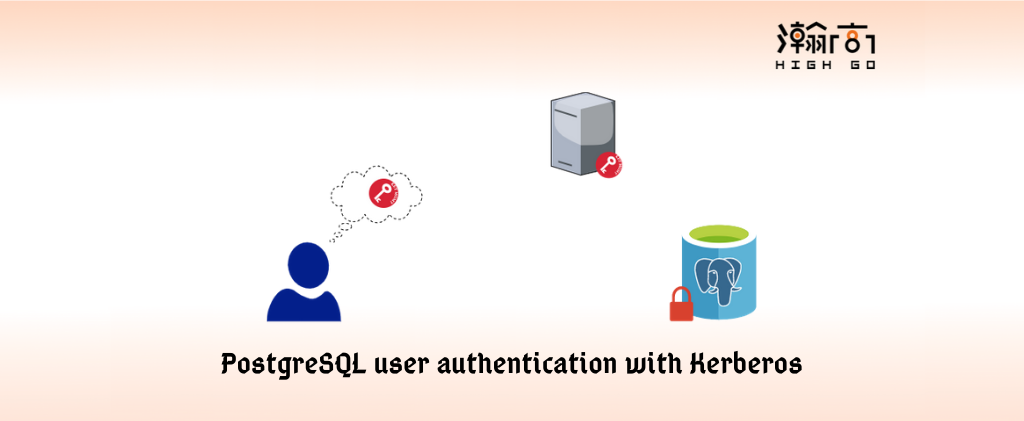
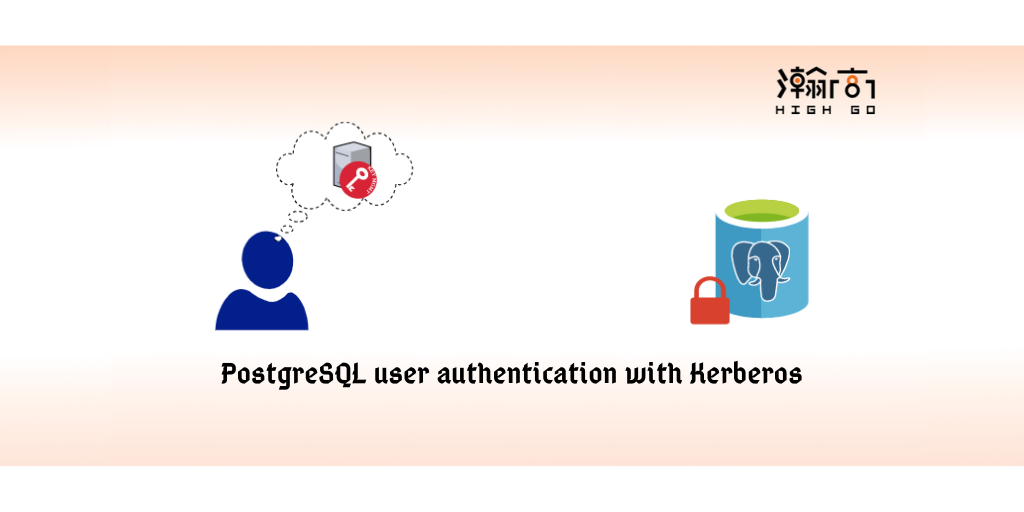
Site updated: 2020-03-18 13:25:36

diff --git a/index.html b/index.html
@@ -205,7 +205,7 @@
                   <i class="fa fa-calendar-check-o"></i>
                 </span>
                 <span class="post-meta-item-text">Edited on</span>
-                <time title="Modified: 2020-03-18 12:38:23" itemprop="dateModified" datetime="2020-03-18T12:38:23-07:00">2020-03-18</time>
+                <time title="Modified: 2020-03-18 13:24:16" itemprop="dateModified" datetime="2020-03-18T13:24:16-07:00">2020-03-18</time>
               </span>
             <span class="post-meta-item">
               <span class="post-meta-item-icon">
@@ -254,7 +254,8 @@
     <div class="post-body" itemprop="articleBody">
 
       
-          <h4 id="1-Overview"><a href="#1-Overview" class="headerlink" title="1. Overview"></a>1. Overview</h4><p>In previous two blogs, we explained how to setup Kerberos, and how to configure PostgreSQL to support GSSAPI user authentication. This blog will be focusing on how to check GSSAPI authentication, encryption and user principal information when given different connection options.</p>
+          <p><img src="/images/img/fi-part3.png" alt="Featured image"></p>
+<h4 id="1-Overview"><a href="#1-Overview" class="headerlink" title="1. Overview"></a>1. Overview</h4><p>In previous two blogs, we explained how to setup Kerberos, and how to configure PostgreSQL to support GSSAPI user authentication. This blog will be focusing on how to check GSSAPI authentication, encryption and user principal information when given different connection options.</p>
 <h4 id="2-pg-stat-gssapi-view"><a href="#2-pg-stat-gssapi-view" class="headerlink" title="2. pg_stat_gssapi view"></a>2. pg_stat_gssapi view</h4><p>According to the official <a href="https://www.postgresql.org/docs/current/gssapi-auth.html" target="_blank" rel="noopener">PostgreSQL document</a>, “<em>PostgreSQL supports GSSAPI for use as either an encrypted, authenticated layer, or for authentication only.</em>“ To check the authentication, encryption and user principal, we need to use <code>pg_stat_gssapi</code> view, which is a dynamic statistics views containing one row per backend and showing the information about GSSAPI authentication and encryption used on this connection.</p>
 <p>Before start the test below, make sure the <code>PostgreSQL server</code> and the <code>psql client</code> has the option <code>--with-gssap</code> enabled during build time.</p>
 <h4 id="3-Authentication-and-Encryption-status"><a href="#3-Authentication-and-Encryption-status" class="headerlink" title="3. Authentication and Encryption status"></a>3. Authentication and Encryption status</h4><ul>
@@ -349,7 +350,7 @@
                   <i class="fa fa-calendar-check-o"></i>
                 </span>
                 <span class="post-meta-item-text">Edited on</span>
-                <time title="Modified: 2020-03-18 12:17:04" itemprop="dateModified" datetime="2020-03-18T12:17:04-07:00">2020-03-18</time>
+                <time title="Modified: 2020-03-18 13:24:32" itemprop="dateModified" datetime="2020-03-18T13:24:32-07:00">2020-03-18</time>
               </span>
             <span class="post-meta-item">
               <span class="post-meta-item-icon">
@@ -398,7 +399,8 @@
     <div class="post-body" itemprop="articleBody">
 
       
-          <h4 id="1-Overview"><a href="#1-Overview" class="headerlink" title="1. Overview"></a>1. Overview</h4><p>In previous <a href="https://idrawone.github.io/2020/03/11/PostgreSQL-GSSAPI-Authentication-with-Kerberos-part-1/">blog</a>, we have setup Kerberos, added all required principals and verified each principal. This blog will explain all the necessary configuration, i.e. <code>postgresql.conf</code>, <code>pg_hba.conf</code> and <code>pg_ident.conf</code>, in PostgreSQL for user authentication using GSSAPI with Kerberos.</p>
+          <p><img src="/images/img/fi-part2.png" alt="Featured image"></p>
+<h4 id="1-Overview"><a href="#1-Overview" class="headerlink" title="1. Overview"></a>1. Overview</h4><p>In previous <a href="https://idrawone.github.io/2020/03/11/PostgreSQL-GSSAPI-Authentication-with-Kerberos-part-1/">blog</a>, we have setup Kerberos, added all required principals and verified each principal. This blog will explain all the necessary configuration, i.e. <code>postgresql.conf</code>, <code>pg_hba.conf</code> and <code>pg_ident.conf</code>, in PostgreSQL for user authentication using GSSAPI with Kerberos.</p>
 <h4 id="2-Build-PostgreSQL-with-GSSAPI"><a href="#2-Build-PostgreSQL-with-GSSAPI" class="headerlink" title="2. Build PostgreSQL with GSSAPI"></a>2. Build PostgreSQL with GSSAPI</h4><p>The official <a href="https://www.postgresql.org/download/linux/ubuntu/" target="_blank" rel="noopener">PostgreSQL release for Ubuntu</a> has GSSAPI enabled for user authentication with Kerberos, however if you want to build it from source code, you can simply enable it by giving the option <code>--with-gssapi</code> in configure process like below.</p>
 <figure class="highlight plain"><table><tr><td class="gutter"><pre><span class="line">1</span><br></pre></td><td class="code"><pre><span class="line">$ .&#x2F;configure --with-gssapi --prefix&#x3D;&#x2F;home&#x2F;postgres&#x2F;pgapp</span><br></pre></td></tr></table></figure>
 <p>There is another option <code>--with-krb-srvnam</code>, PostgreSQL uses the default name of the Kerberos service principal. According to Postgres official document, “<em>There’s usually no reason to change this unless you have a Windows environment, in which case it must be set to upper case POSTGRES</em>“. In this blog, we keep it as default, and no extra configuration required for it. After enabled <code>--with-gssapi</code> option, you can build, install, initialize database, change configuration and start database service as normal. The commands used in this blog are list below.</p>

diff --git a/2020/03/12/PostgreSQL-GSSAPI-Authentication-with-Kerberos-part-2/index.html b/2020/03/12/PostgreSQL-GSSAPI-Authentication-with-Kerberos-part-2/index.html
@@ -46,20 +46,21 @@
   };
 </script>
 
-  <meta name="description" content="1. OverviewIn previous blog, we have setup Kerberos, added all required principals and verified each principal. This blog will explain all the necessary configuration, i.e. postgresql.conf, pg_hba.con">
+  <meta name="description" content="1. OverviewIn previous blog, we have setup Kerberos, added all required principals and verified each principal. This blog will explain all the necessary configuration, i.e. postgresql.conf, pg_hba.co">
 <meta property="og:type" content="article">
 <meta property="og:title" content="PostgreSQL GSSAPI Authentication with Kerberos part-2: PostgreSQL Configuration">
 <meta property="og:url" content="https://idrawone.github.io/2020/03/12/PostgreSQL-GSSAPI-Authentication-with-Kerberos-part-2/index.html">
 <meta property="og:site_name" content="David&#39;s Blog">
-<meta property="og:description" content="1. OverviewIn previous blog, we have setup Kerberos, added all required principals and verified each principal. This blog will explain all the necessary configuration, i.e. postgresql.conf, pg_hba.con">
+<meta property="og:description" content="1. OverviewIn previous blog, we have setup Kerberos, added all required principals and verified each principal. This blog will explain all the necessary configuration, i.e. postgresql.conf, pg_hba.co">
 <meta property="og:locale" content="en_US">
+<meta property="og:image" content="https://idrawone.github.io/images/img/fi-part2.png">
 <meta property="og:image" content="https://idrawone.github.io/images/img/gssapi-postgres.png">
 <meta property="og:image" content="https://idrawone.github.io/images/img/gssapi-postgres-client.png">
 <meta property="article:published_time" content="2020-03-12T11:00:00.000Z">
-<meta property="article:modified_time" content="2020-03-18T19:17:04.883Z">
+<meta property="article:modified_time" content="2020-03-18T20:24:32.339Z">
 <meta property="article:author" content="David Zhang">
 <meta name="twitter:card" content="summary">
-<meta name="twitter:image" content="https://idrawone.github.io/images/img/gssapi-postgres.png">
+<meta name="twitter:image" content="https://idrawone.github.io/images/img/fi-part2.png">
 
 <link rel="canonical" href="https://idrawone.github.io/2020/03/12/PostgreSQL-GSSAPI-Authentication-with-Kerberos-part-2/">
 
@@ -209,7 +210,7 @@
                   <i class="fa fa-calendar-check-o"></i>
                 </span>
                 <span class="post-meta-item-text">Edited on</span>
-                <time title="Modified: 2020-03-18 12:17:04" itemprop="dateModified" datetime="2020-03-18T12:17:04-07:00">2020-03-18</time>
+                <time title="Modified: 2020-03-18 13:24:32" itemprop="dateModified" datetime="2020-03-18T13:24:32-07:00">2020-03-18</time>
               </span>
             <span class="post-meta-item">
               <span class="post-meta-item-icon">
@@ -258,7 +259,8 @@
     <div class="post-body" itemprop="articleBody">
 
       
-        <h4 id="1-Overview"><a href="#1-Overview" class="headerlink" title="1. Overview"></a>1. Overview</h4><p>In previous <a href="https://idrawone.github.io/2020/03/11/PostgreSQL-GSSAPI-Authentication-with-Kerberos-part-1/">blog</a>, we have setup Kerberos, added all required principals and verified each principal. This blog will explain all the necessary configuration, i.e. <code>postgresql.conf</code>, <code>pg_hba.conf</code> and <code>pg_ident.conf</code>, in PostgreSQL for user authentication using GSSAPI with Kerberos.</p>
+        <p><img src="/images/img/fi-part2.png" alt="Featured image"></p>
+<h4 id="1-Overview"><a href="#1-Overview" class="headerlink" title="1. Overview"></a>1. Overview</h4><p>In previous <a href="https://idrawone.github.io/2020/03/11/PostgreSQL-GSSAPI-Authentication-with-Kerberos-part-1/">blog</a>, we have setup Kerberos, added all required principals and verified each principal. This blog will explain all the necessary configuration, i.e. <code>postgresql.conf</code>, <code>pg_hba.conf</code> and <code>pg_ident.conf</code>, in PostgreSQL for user authentication using GSSAPI with Kerberos.</p>
 <h4 id="2-Build-PostgreSQL-with-GSSAPI"><a href="#2-Build-PostgreSQL-with-GSSAPI" class="headerlink" title="2. Build PostgreSQL with GSSAPI"></a>2. Build PostgreSQL with GSSAPI</h4><p>The official <a href="https://www.postgresql.org/download/linux/ubuntu/" target="_blank" rel="noopener">PostgreSQL release for Ubuntu</a> has GSSAPI enabled for user authentication with Kerberos, however if you want to build it from source code, you can simply enable it by giving the option <code>--with-gssapi</code> in configure process like below.</p>
 <figure class="highlight plain"><table><tr><td class="gutter"><pre><span class="line">1</span><br></pre></td><td class="code"><pre><span class="line">$ .&#x2F;configure --with-gssapi --prefix&#x3D;&#x2F;home&#x2F;postgres&#x2F;pgapp</span><br></pre></td></tr></table></figure>
 <p>There is another option <code>--with-krb-srvnam</code>, PostgreSQL uses the default name of the Kerberos service principal. According to Postgres official document, “<em>There’s usually no reason to change this unless you have a Windows environment, in which case it must be set to upper case POSTGRES</em>“. In this blog, we keep it as default, and no extra configuration required for it. After enabled <code>--with-gssapi</code> option, you can build, install, initialize database, change configuration and start database service as normal. The commands used in this blog are list below.</p>

diff --git a/2020/03/15/PostgreSQL-GSSAPI-Authentication-with-Kerberos-part-3/index.html b/2020/03/15/PostgreSQL-GSSAPI-Authentication-with-Kerberos-part-3/index.html
@@ -46,17 +46,19 @@
   };
 </script>
 
-  <meta name="description" content="1. OverviewIn previous two blogs, we explained how to setup Kerberos, and how to configure PostgreSQL to support GSSAPI user authentication. This blog will be focusing on how to check GSSAPI authentic">
+  <meta name="description" content="1. OverviewIn previous two blogs, we explained how to setup Kerberos, and how to configure PostgreSQL to support GSSAPI user authentication. This blog will be focusing on how to check GSSAPI authenti">
 <meta property="og:type" content="article">
 <meta property="og:title" content="PostgreSQL GSSAPI Authentication with Kerberos part-3: the status of authentication, encryption and user principal">
 <meta property="og:url" content="https://idrawone.github.io/2020/03/15/PostgreSQL-GSSAPI-Authentication-with-Kerberos-part-3/index.html">
 <meta property="og:site_name" content="David&#39;s Blog">
-<meta property="og:description" content="1. OverviewIn previous two blogs, we explained how to setup Kerberos, and how to configure PostgreSQL to support GSSAPI user authentication. This blog will be focusing on how to check GSSAPI authentic">
+<meta property="og:description" content="1. OverviewIn previous two blogs, we explained how to setup Kerberos, and how to configure PostgreSQL to support GSSAPI user authentication. This blog will be focusing on how to check GSSAPI authenti">
 <meta property="og:locale" content="en_US">
+<meta property="og:image" content="https://idrawone.github.io/images/img/fi-part3.png">
 <meta property="article:published_time" content="2020-03-15T11:00:00.000Z">
-<meta property="article:modified_time" content="2020-03-18T19:38:23.779Z">
+<meta property="article:modified_time" content="2020-03-18T20:24:16.951Z">
 <meta property="article:author" content="David Zhang">
 <meta name="twitter:card" content="summary">
+<meta name="twitter:image" content="https://idrawone.github.io/images/img/fi-part3.png">
 
 <link rel="canonical" href="https://idrawone.github.io/2020/03/15/PostgreSQL-GSSAPI-Authentication-with-Kerberos-part-3/">
 
@@ -206,7 +208,7 @@
                   <i class="fa fa-calendar-check-o"></i>
                 </span>
                 <span class="post-meta-item-text">Edited on</span>
-                <time title="Modified: 2020-03-18 12:38:23" itemprop="dateModified" datetime="2020-03-18T12:38:23-07:00">2020-03-18</time>
+                <time title="Modified: 2020-03-18 13:24:16" itemprop="dateModified" datetime="2020-03-18T13:24:16-07:00">2020-03-18</time>
               </span>
             <span class="post-meta-item">
               <span class="post-meta-item-icon">
@@ -255,7 +257,8 @@
     <div class="post-body" itemprop="articleBody">
 
       
-        <h4 id="1-Overview"><a href="#1-Overview" class="headerlink" title="1. Overview"></a>1. Overview</h4><p>In previous two blogs, we explained how to setup Kerberos, and how to configure PostgreSQL to support GSSAPI user authentication. This blog will be focusing on how to check GSSAPI authentication, encryption and user principal information when given different connection options.</p>
+        <p><img src="/images/img/fi-part3.png" alt="Featured image"></p>
+<h4 id="1-Overview"><a href="#1-Overview" class="headerlink" title="1. Overview"></a>1. Overview</h4><p>In previous two blogs, we explained how to setup Kerberos, and how to configure PostgreSQL to support GSSAPI user authentication. This blog will be focusing on how to check GSSAPI authentication, encryption and user principal information when given different connection options.</p>
 <h4 id="2-pg-stat-gssapi-view"><a href="#2-pg-stat-gssapi-view" class="headerlink" title="2. pg_stat_gssapi view"></a>2. pg_stat_gssapi view</h4><p>According to the official <a href="https://www.postgresql.org/docs/current/gssapi-auth.html" target="_blank" rel="noopener">PostgreSQL document</a>, “<em>PostgreSQL supports GSSAPI for use as either an encrypted, authenticated layer, or for authentication only.</em>“ To check the authentication, encryption and user principal, we need to use <code>pg_stat_gssapi</code> view, which is a dynamic statistics views containing one row per backend and showing the information about GSSAPI authentication and encryption used on this connection.</p>
 <p>Before start the test below, make sure the <code>PostgreSQL server</code> and the <code>psql client</code> has the option <code>--with-gssap</code> enabled during build time.</p>
 <h4 id="3-Authentication-and-Encryption-status"><a href="#3-Authentication-and-Encryption-status" class="headerlink" title="3. Authentication and Encryption status"></a>3. Authentication and Encryption status</h4><ul>

diff --git a/css/main.css b/css/main.css
@@ -1154,7 +1154,7 @@ pre .javascript .function {
 }
 .links-of-author a::before,
 .links-of-author span.exturl::before {
-  background: #335c4b;
+  background: #266c63;
   border-radius: 50%;
   content: ' ';
   display: inline-block;
